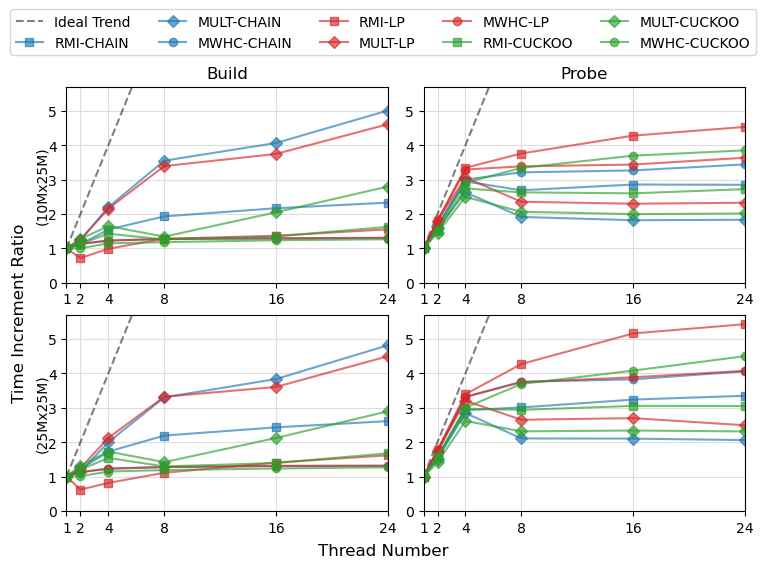
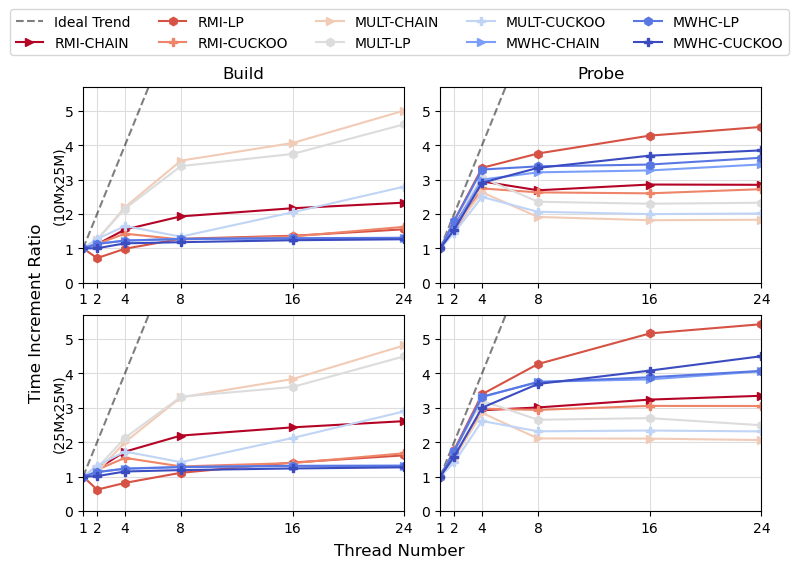
Patch join_cmp plot

diff --git a/scripts/thread_plot.py b/scripts/thread_plot.py
@@ -30,23 +30,17 @@ prefix = BASE_DIR + 'figs/join_cmp'
 
 # ============================= UTILITIES ============================= #
 
-SHAPES_FN = {
-    'RMI': 's',
-    'PGM': 's',
-    'Murmur': 'D',
-    'BitMWHC': 'o',
-    'RadixSpline': 's',
-    'MWHC': 'o',
-    'RecSplit': 'o',
-    'AquaHash': 'D',
-    'XXHash': 'D',
-    'MultiplyPrime': 'D',
-    'FibonacciPrime': 'D'
+SHAPES_TAB = {
+    'linear': 'h',
+    'chained': '>',
+    'cuckoo': 'P'
 }
+COLORS = {}
+
 ALPHA_FN = {
-    'RMI': 0.65,
-    'MWHC': 0.65,
-    'MultiplyPrime': 0.65
+    'RMI': 0.8,
+    'MWHC': 0.8,
+    'MultiplyPrime': 0.8
 }
 COLOR_TAB = {
     'linear': 'tab:red',
@@ -56,13 +50,13 @@ COLOR_TAB = {
 F_MAP = {
     'Ideal Trend': -1,
     'RMI-CHAIN': 0,
-    'MULT-CHAIN': 1,
-    'MWHC-CHAIN': 2,
-    'RMI-LP': 3,
+    'MULT-CHAIN': 3,
+    'MWHC-CHAIN': 6,
+    'RMI-LP': 1,
     'MULT-LP': 4,
-    'MWHC-LP': 5,
-    'RMI-CUCKOO': 6,
-    'MULT-CUCKOO': 7,
+    'MWHC-LP': 7,
+    'RMI-CUCKOO': 2,
+    'MULT-CUCKOO': 5,
     'MWHC-CUCKOO': 8
 }
 def get_map(x):
@@ -121,6 +115,24 @@ def sort_labels(labels, handles):
     pairs = list(zip(labels, handles))
     sorted_pairs = sorted(pairs, key=lambda pair: F_MAP[pair[0]])
     return zip(*sorted_pairs)
+
+def prepare_fn_colormap():
+    functions = ['RMI','RadixSpline','PGM','Murmur','MultiplyPrime','FibonacciPrime','XXHash','AquaHash','MWHC','BitMWHC','RecSplit'][::-1]
+    cmap = plt.get_cmap('coolwarm')
+    # Create a dictionary of unique colors based on the number of labels
+    col_dict = {functions[f_i]: cmap(col_i) for f_i, col_i in enumerate(np.linspace(0, 1, len(functions)))}
+    ret_dict = {
+        'RMI-CHAIN': col_dict[functions[-1]],
+        'MULT-CHAIN': col_dict[functions[-5]],
+        'MWHC-CHAIN': col_dict[functions[-9]],
+        'RMI-LP': col_dict[functions[-2]],
+        'MULT-LP': col_dict[functions[-6]],
+        'MWHC-LP': col_dict[functions[-10]],
+        'RMI-CUCKOO': col_dict[functions[-3]],
+        'MULT-CUCKOO': col_dict[functions[-7]],
+        'MWHC-CUCKOO': col_dict[functions[-11]]
+    }
+    return ret_dict
 
 def load():
     # Load benchmarks from the file
@@ -184,8 +196,8 @@ def print_ratio_img():
                 df['threads'] = key
                 ratios = pd.concat([ratios, df], ignore_index=True)
 
-            h, = ax[BUILD].plot(ratios['threads'], ratios['ratio_build'], color=COLOR_TAB[ratios['table_type'][0]], marker=SHAPES_FN[ratios['function'][0]], label=l, alpha=ALPHA_FN[ratios['function'][0]])
-            ax[PROBE].plot(ratios['threads'], ratios['ratio_probe'], color=COLOR_TAB[ratios['table_type'][0]], marker=SHAPES_FN[ratios['function'][0]], label=l, alpha=ALPHA_FN[ratios['function'][0]])
+            h, = ax[BUILD].plot(ratios['threads'], ratios['ratio_build'], color=COLORS[l], marker=SHAPES_TAB[ratios['table_type'][0]], label=l)
+            ax[PROBE].plot(ratios['threads'], ratios['ratio_probe'], color=COLORS[l], marker=SHAPES_TAB[ratios['table_type'][0]], label=l)
     
             if i == 0:
                 handles.append(h)
@@ -218,6 +230,7 @@ def print_ratio_img():
     fig.savefig(name, bbox_extra_artists=(lgd,labx,laby,), bbox_inches='tight')
 
 if __name__ == '__main__':
+    COLORS = prepare_fn_colormap()
     bm_dict = load()
     print_ratio_img()
 

diff --git a/README.md b/README.md
@@ -139,11 +139,12 @@ This script can be particularly useful to leverage the average capability of `pr
 
 [`output/`](./output/) : stores experimental results run on the research group's server. Such results were used to generate the available plots.
 
-[`scripts/`](./scripts/) : contains three utility scripts.
+[`scripts/`](./scripts/) : contains four utility scripts.
 
 1. [`merge_results.py`](./scripts/merge_results.py) : allows to merge two or more .json files containing benchmark results.  
 2. [`print_figures.py`](./scripts/merge_results.py) : generates plots starting from a .json or .csv result file.
-3. [`setup_datasets.sh`](./scripts/setup_datasets.sh) : downloads SOSD datasets required to run the benchmarks. 
+3. [`setup_datasets.sh`](./scripts/setup_datasets.sh) : downloads SOSD datasets required to run the benchmarks.
+4. [`thread_plot.py`](./scripts/thread_plot.py) : generates the [`join_cmp.png`](./figs/join_cmp.png) plot.
 
 ## 🧩 Third party components
 This repository is based on the following components:
